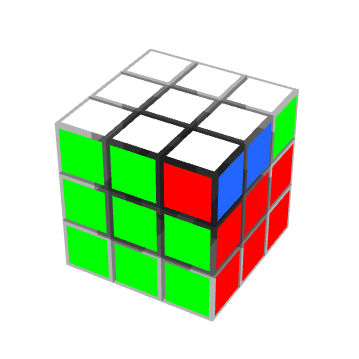
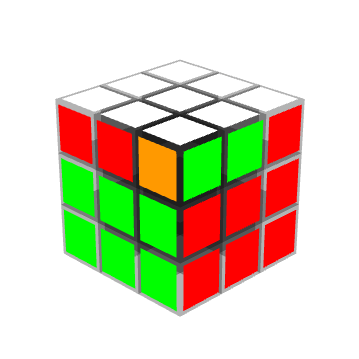
fix: update Ja Perm algorithm and refresh ergonomic pairings and preview generation data

Changed region(s): [[0.1532, 0.1532, 0.8579, 0.8886], [0.3983, 0.1226, 0.4596, 0.1532]]

diff --git a/src/pages/dev/GeneratePreviews.tsx b/src/pages/dev/GeneratePreviews.tsx
@@ -12,11 +12,11 @@ interface GenCase {
 
 const DATASET: GenCase[] = [
   {
-    id: "pll-f",
-    name: "F Perm",
-    shape: "Adjacent corner + edge cycle",
-    scramble: "R' U' R U' R' U R U R2' F' R U R U' R' F U R",
-    algorithm: "R' U' F' R U R' U' R' F R2 U' R' U' R U R' U R",
+    id: "pll-ja",
+    name: "Ja Perm",
+    shape: "L-shape corner + edge",
+    scramble: "R' U2' R U R' U2' L U' R U L'",
+    algorithm: "L U' R' U L' U2 R U' R' U2 R",
   },
 ];
 
@@ -28,7 +28,7 @@ const GeneratePreviews = () => {
   const [errors, setErrors] = useState<string[]>([]);
   const [images, setImages] = useState<{ id: string; url: string }[]>([]);
   const [ready, setReady] = useState(false);
-  const [filter, setFilter] = useState("pll-f");
+  const [filter, setFilter] = useState("pll-ja");
   const cancelledRef = useRef(false);
 
   const filtered = filter.trim()
@@ -82,7 +82,7 @@ const GeneratePreviews = () => {
       console.log(`[PLL Generator] [${i + 1}/${ds.length}] ${c.id} — scramble: ${c.scramble}`);
 
       try {
-        let setupAlg = new Alg("y").concat(new Alg(c.scramble)).concat(new Alg("y'"));
+        let setupAlg = new Alg("y'").concat(new Alg(c.scramble)).concat(new Alg("y"));
         const setupStr = setupAlg.toString();
         console.log(`[PLL Generator]   setup: ${setupStr}`);
 
@@ -143,7 +143,7 @@ const GeneratePreviews = () => {
             type="text"
             value={filter}
             onChange={(e) => setFilter(e.target.value)}
-            placeholder="pll-f"
+            placeholder="pll-ja"
             className="w-full px-3 py-2 rounded-lg border border-slate-200 dark:border-slate-700 bg-white dark:bg-slate-800 text-slate-900 dark:text-white text-sm font-mono"
           />
         </div>

diff --git a/src/data/PLLCases.ts b/src/data/PLLCases.ts
@@ -173,20 +173,15 @@ const PLLCases: AlgoCase[] = [
     name: "Ja Perm",
     subset: "PLL",
     difficulty: "Medium",
-    scramble: "L U' R' U L' U2 R U' R' U2 R",
-    algorithm: "L U' R' U L' U2 R U' R' U2 R",
+    scramble: "L' U' L F L' U' L U L F' L2' U L U",
+    algorithm: "L' U' L F L' U' L U L F' L2' U L U",
     description: "L-shape corner + edge",
     edgeGroup: "both",
     shapeGroup: "j",
     aliases: ["J-PLL a", "L-perm"],
     usedIn: "PLL, ZBLL, BLD",
     optimalMoves: "10 HTM",
-    alternatives: [
-      "R' U2 R U R' U2 L U' R U L'",
-      "L' U R' U2 L U' R U L' U R' U2 L U' R",
-      "(y2) L U' R' U L' U2 R U' R' U2 R",
-      "(y2) x R2' F R F' R U2 r' U r U2 x'",
-    ],
+    ergonomicPairId: "pll-jb",
   },
   {
     id: "pll-jb",
@@ -201,10 +196,13 @@ const PLLCases: AlgoCase[] = [
     aliases: ["J-PLL b"],
     usedIn: "PLL, ZBLL, BLD",
     optimalMoves: "10 HTM",
+    ergonomicPairId: "pll-ja",
+    isCanonicalVariantSource: true,
     alternatives: [
-      "R U2 R' U' R U2 L' U R' U' L",
-      "B2 L U L' B2 R D' R D R2",
-      "(y2) R' U L U' R U2' L' U L U2 L'",
+      "R U2 R' U' R U2 L' U R' U' L ",
+      "R U2 (R' U' R) U2 L' (U R' U') L",
+      "(y) (R U' L) U2 (R' U R) U2 L' R' U y'",
+      "L' U R U' L U2 R' U R U2 R'",
     ],
   },
   {
